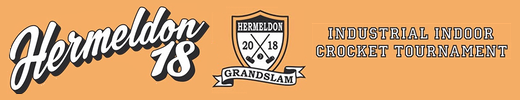
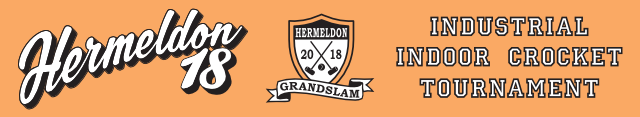
hermel-config: refine dual cam view, add variant (dual_sml.html) for smaller tablet screens

diff --git a/hermel-config/files/www/dual_sml.html b/hermel-config/files/www/dual_sml.html
@@ -20,6 +20,7 @@
       h2 { font-family:Helvetica; font-size:18pt; }
 
       .centered { margin-left:auto; margin-right:auto; max-width: 640px; text-align: center; }
+      .centered_s { margin-left:auto; margin-right:auto; max-width: 320px; text-align: center; }
 
       .ui-content { padding: 5px; }
 
@@ -34,16 +35,18 @@
       .p44-mini-input + div.ui-input-text { width: 100px !important; float: right; }
       .p44-mini-input-end { clear: right; }
 
-      #remotecam { max-width: 640px; text-align: center; margin-right: auto; margin-left: auto; margin-top: 20px; margin-bottom: 20px; }
       #localcam { max-width: 640px; text-align: center; margin-right: auto; margin-left: auto; margin-top: 20px; margin-bottom: 20px; }
+      #remotecam { max-width: 320px; text-align: center; margin-right: auto; margin-left: auto; margin-top: 20px; margin-bottom: 20px; }
 
       #hermel { max-width: 500px; margin-left: auto; margin-right: auto;}
-      #logo { width:640px; margin-left: auto; margin-right: auto; }
-
-      #spacer { height:18px; }
+      #logo { width:320px; margin-left: auto; margin-right: auto; }
+      #banner { max-width: 320px; }
 
       .camimage { width:640px; height:480px; background-color: grey; }
+      .camimage_s { width:320px; height:240px; background-color: grey; }
 
+      .ui-grid-a .ui-block-a { margin-left:10px; width:auto; }
+      .ui-grid-a>:nth-child(n) { margin-right:14px; width:auto; }
 
       .ui-page {
           background:#FAA964;
@@ -187,7 +190,7 @@
             $('#localtitle').html('Zürich, Switzerland - Цюрих, Швейцария');
           }
           $('#localcam').html('<h2 class="camimage">connecting...</h2>');
-          $('#remotecam').html('<h2 class="camimage">connecting...</h2>');
+          $('#remotecam').html('<h2 class="camimage_s">connecting...</h2>');
           setTimeout(function() {
             // Switch to camera image
             // - local cam
@@ -203,10 +206,10 @@
               if (cam2host.indexOf("devices.plan44.ch")>=0) {
                 newPort="22288";
               }
-              $('#remotecam').html('<img class="camimage" src="http://' + cam2host + ':' + newPort + '?action=stream&date=' + new Date().getTime().toString() + '" />');
+              $('#remotecam').html('<img class="camimage_s" src="http://' + cam2host + ':' + newPort + '?action=stream&date=' + new Date().getTime().toString() + '" />');
             }
             else {
-              $('#remotecam').html('<div class="camimage">not available</div>');
+              $('#remotecam').html('<div class="camimage_s">not available</div>');
             }
           }, 1000);
         }, 200);
@@ -262,17 +265,16 @@
         </div>
         <div id="hermel">
           <input type="range" data-highlight="true" name="shoot_angle" id="shoot_angle" min="-1" max="1" step="0.02" />
-          <div id="spacer"></div>
           <button id="shoot_button" onclick="shoot();" data-theme="a">Shoot</button>
         </div>
       </div>
       <div class="ui-block-b">
-        <h1 id="remotetitle" class="centered">Here</h1>
+        <h1 id="remotetitle" class="centered_s">Here</h1>
         <div id="remotecam">
-          <div class="camimage"></div>
+          <div class="camimage_s"></div>
         </div>
         <div id="logo">
-          <img src="media/hs2018banner.png"/>
+          <img id="banner" src="media/hs2018_sml.png"/>
         </div>
       </div>
     </div>

diff --git a/hermel-config/files/www/index.html b/hermel-config/files/www/index.html
@@ -39,7 +39,7 @@
       #camimage { width:640px; height:480px; }
 
       .ui-page {
-          background:#F09D53;
+          background:#FAA964;
       }
 
       /* simplistic p44 progress bar */
